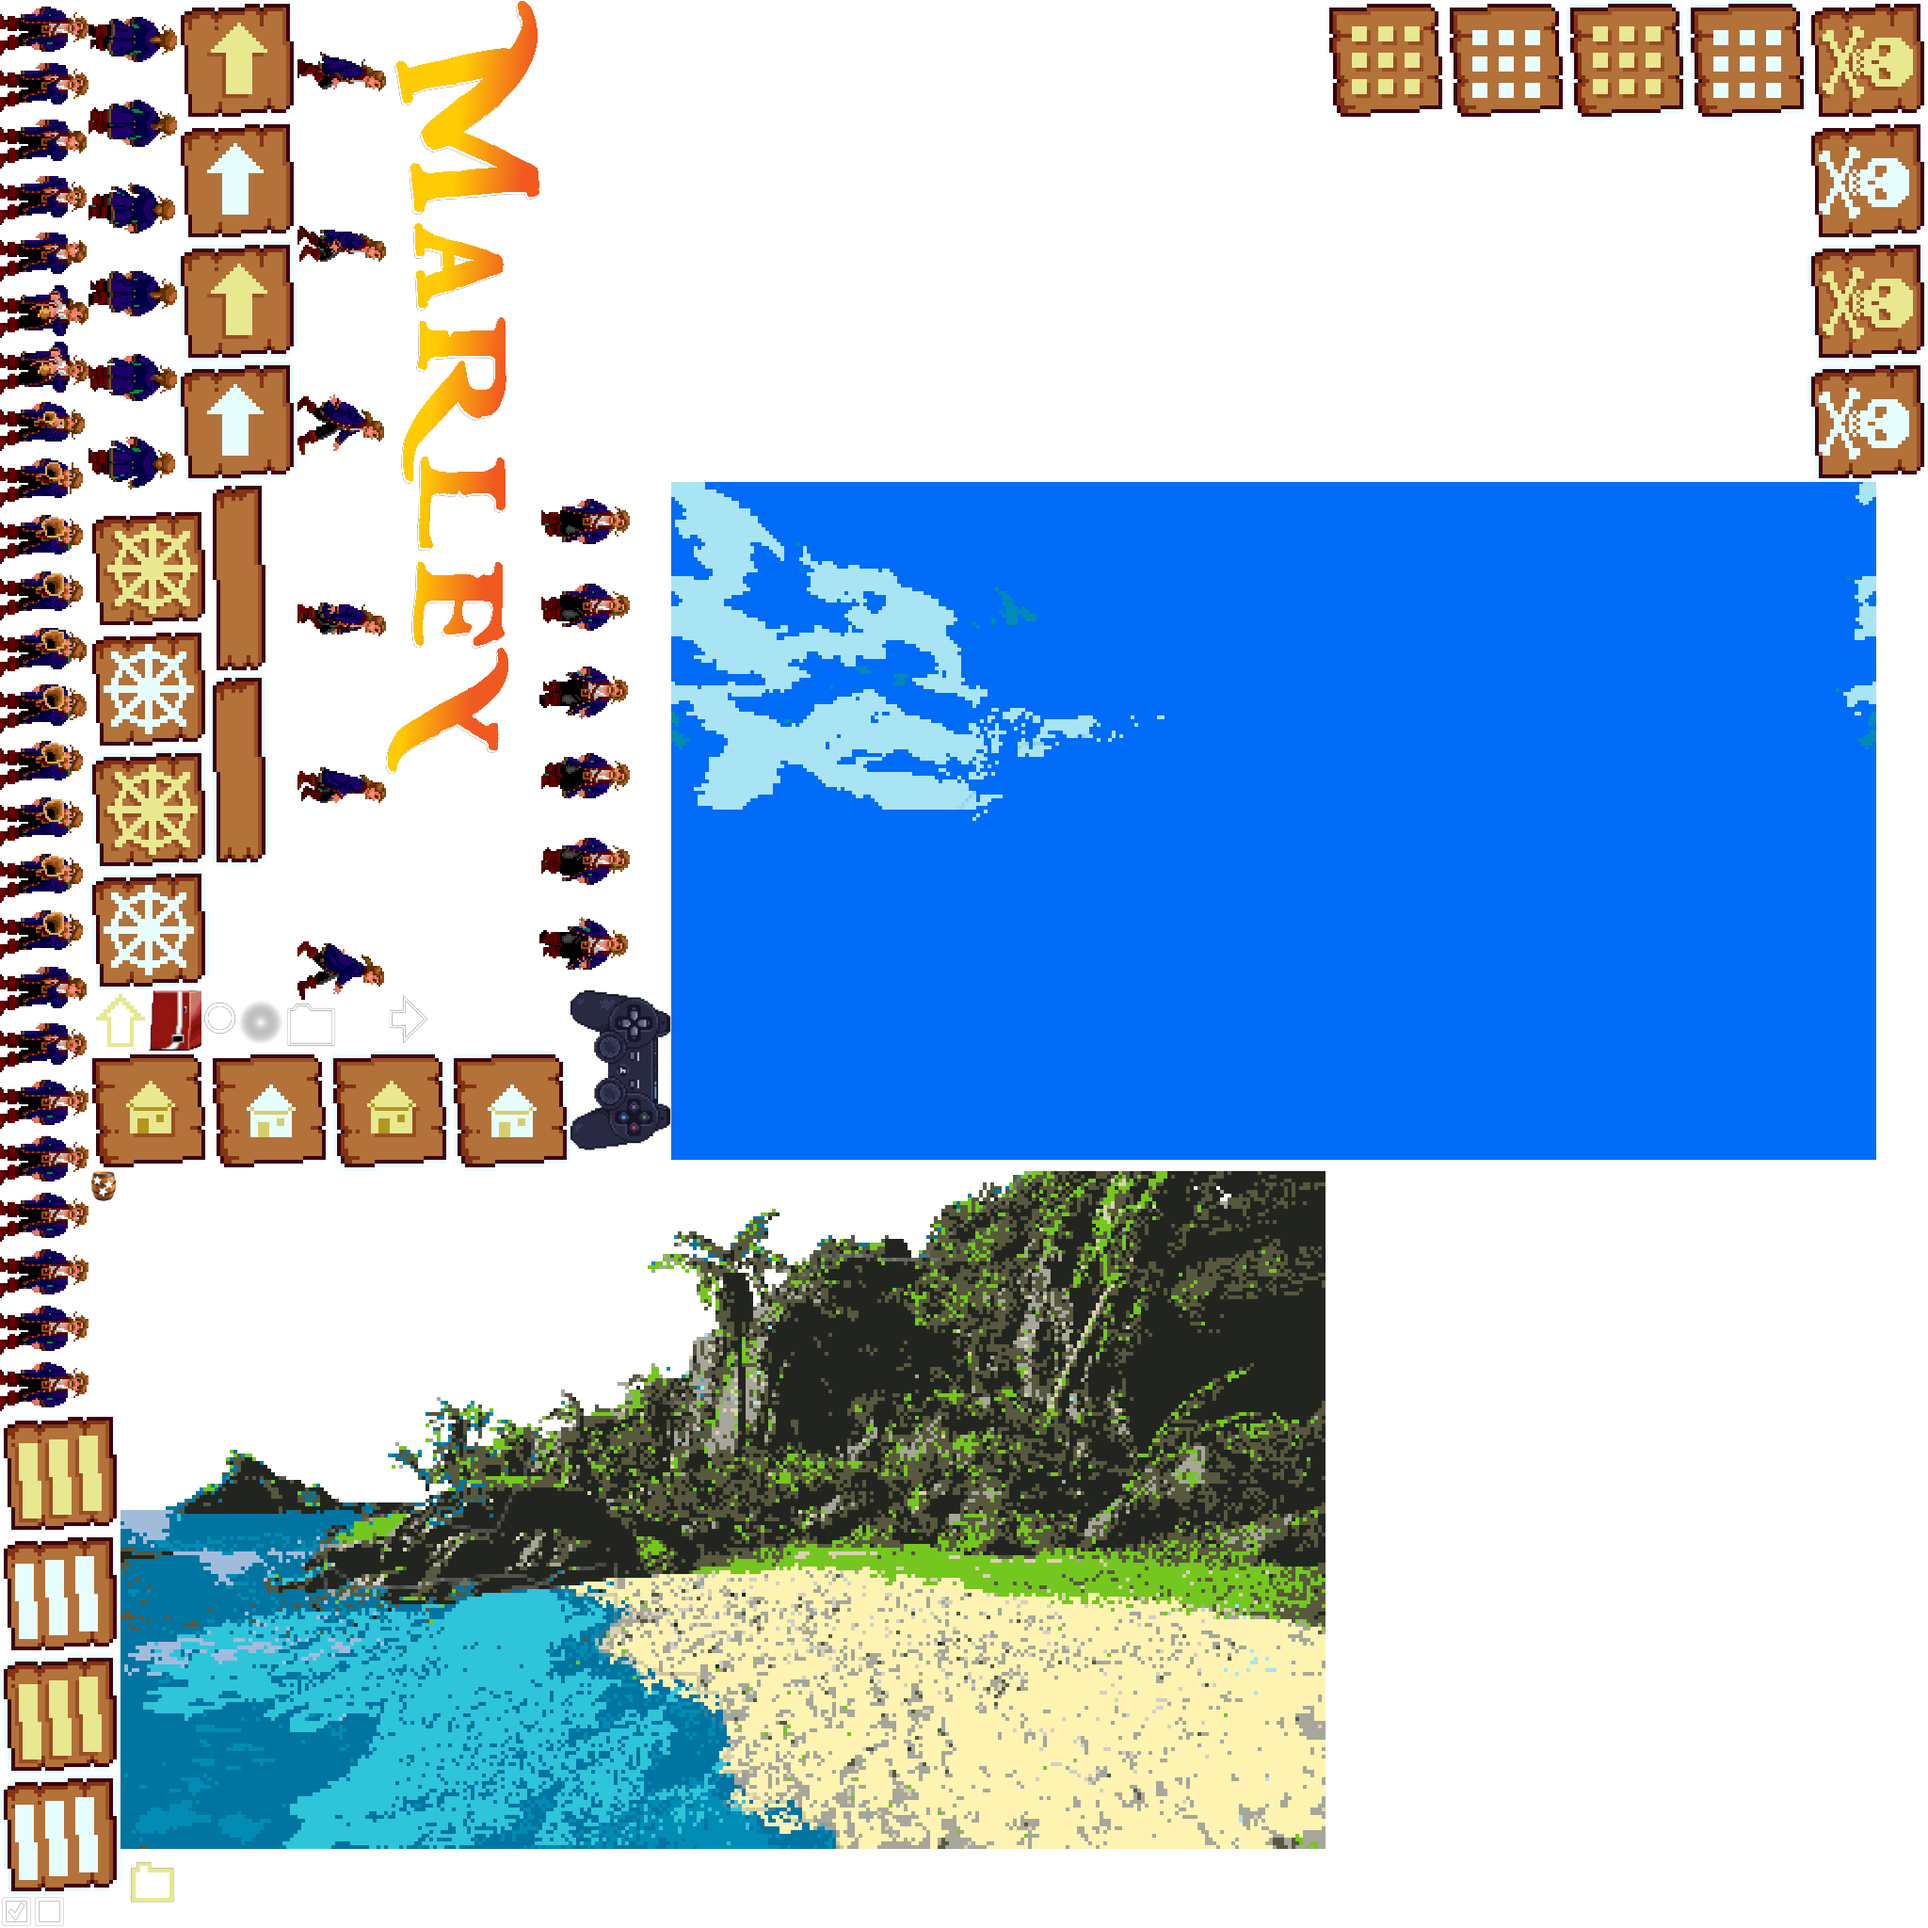
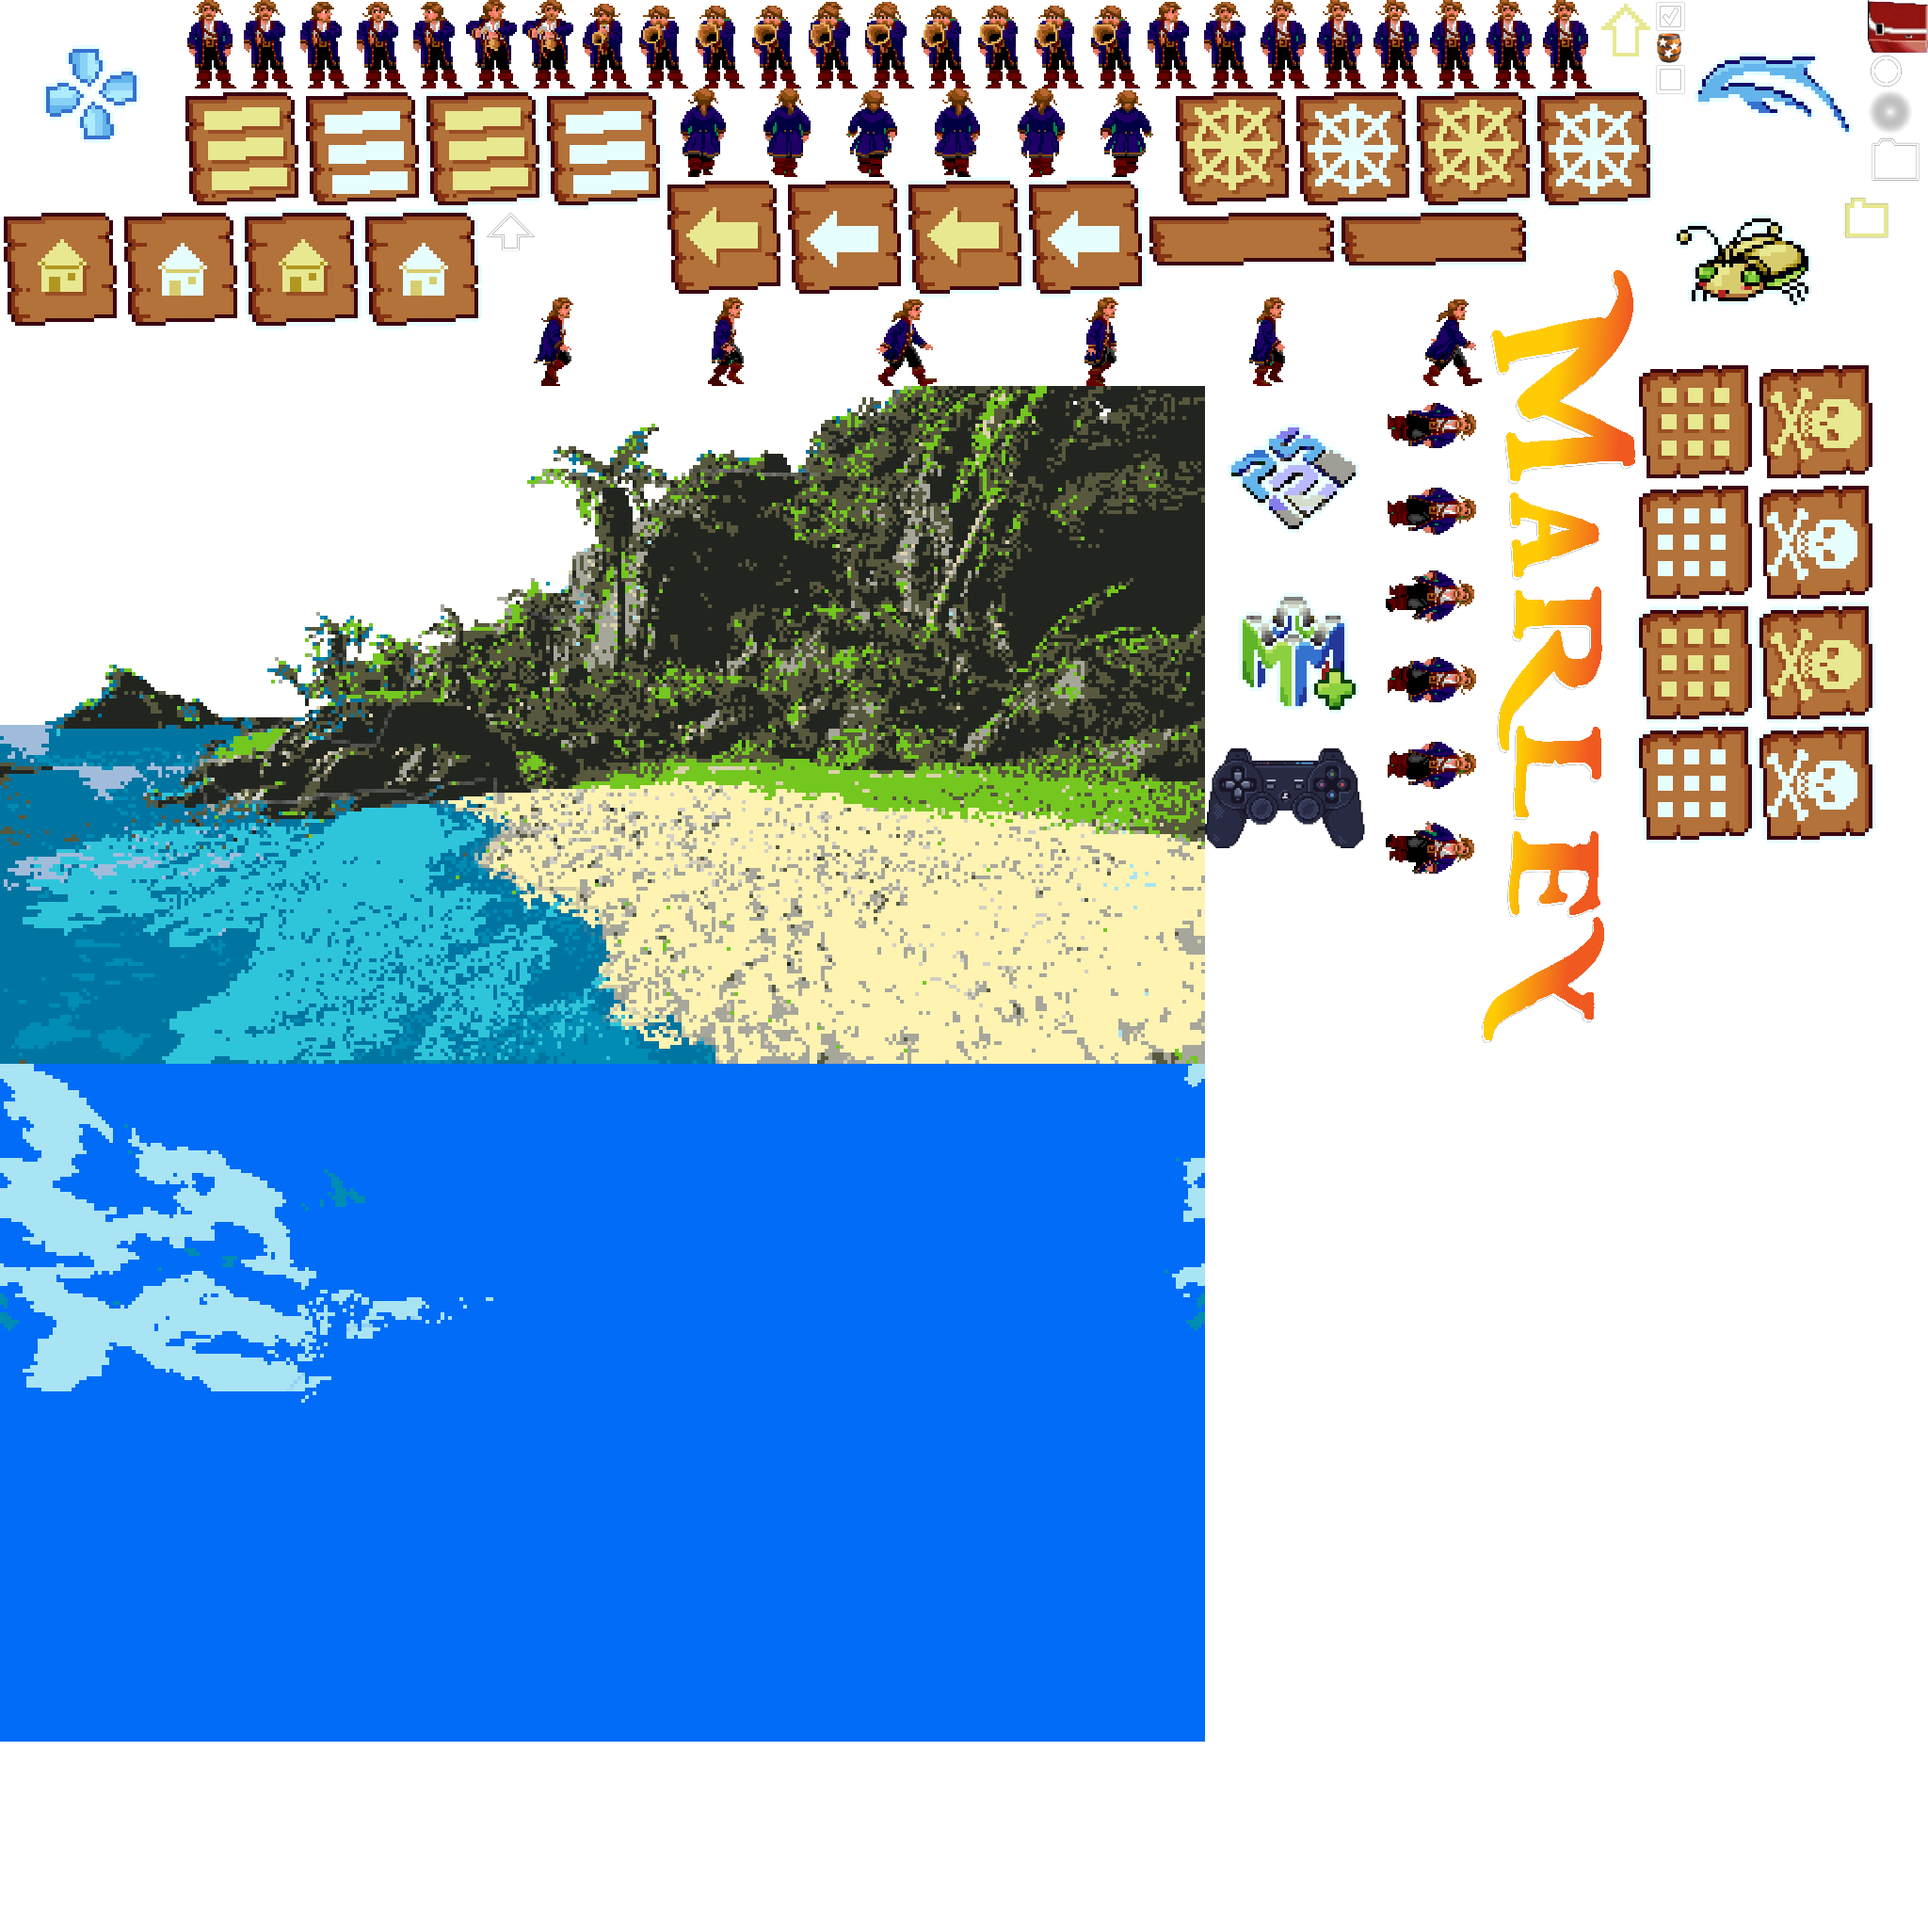
credits screen

diff --git a/resources/atlas/atlas.cpp b/resources/atlas/atlas.cpp
@@ -1,33 +1,38 @@
-const AtlasImage images[27] = {
+const AtlasImage images[32] = {
 
     {0, 1, 0.000488281, 0.999512, 1, 1, 0, "I_WHITE" },
-    {0, 0.999512, 0.0458984, 0.26709, 94, 1500, 90, "I_HORN" },
-    {0, 0.26709, 0.0625, 0.0170898, 128, 512, 90, "I_LINES_R" },
-    {0.0458984, 1, 0.0917969, 0.736328, 94, 540, 90, "I_WALKUP" },
-    {0.0458984, 0.736328, 0.108398, 0.486328, 128, 512, 90, "I_GEAR_R" },
-    {0.0917969, 1, 0.154297, 0.75, 128, 512, 90, "I_BACK_R" },
-    {0.0458984, 0.486328, 0.0771484, 0.455078, 64, 64, 0, "I_UP_DIRECTORY_R" },
-    {0, 0.0170898, 0.0170898, 0, 35, 35, 0, "I_CHECKEDBOX" },
-    {0.0458984, 0.455078, 0.295898, 0.392578, 512, 128, 0, "I_HOME_R" },
-    {0.154297, 1, 0.200195, 0.481445, 94, 1062, 90, "I_WALK" },
-    {0.108398, 0.75, 0.139648, 0.550781, 64, 408, 90, "I_TAB_R" },
-    {0.0625, 0.392578, 0.6875, 0.0410156, 1280, 720, 0, "I_BEACH" },
-    {0.0771484, 0.486328, 0.104492, 0.455078, 56, 64, 0, "I_ENGINE" },
-    {0.200195, 1, 0.279785, 0.597656, 163, 824, 90, "I_MARLEYLOGO" },
-    {0.104492, 0.481445, 0.123535, 0.462402, 39, 39, 0, "I_CIRCLE" },
-    {0.123535, 0.481445, 0.146973, 0.458008, 48, 48, 0, "I_DROP_SHADOW" },
-    {0.0458984, 0.392578, 0.0615234, 0.376953, 32, 32, 0, "I_BARREL" },
-    {0.6875, 1, 0.9375, 0.9375, 512, 128, 0, "I_GRID_R" },
-    {0.146973, 0.481445, 0.175781, 0.455566, 59, 53, 0, "I_FOLDER" },
-    {0.0625, 0.0410156, 0.09375, 0.00976562, 64, 64, 0, "I_FOLDER_R" },
-    {0.9375, 1, 1, 0.75, 128, 512, 90, "I_OFF_R" },
-    {0.279785, 0.75, 0.32666, 0.486328, 96, 540, 90, "I_WALKDOWN" },
-    {0.0170898, 0.0170898, 0.0341797, 0, 35, 35, 0, "I_SQUARE" },
-    {0.295898, 0.486328, 0.348145, 0.40332, 107, 170, 90, "I_CONTROLLER" },
-    {0.200195, 0.486328, 0.223633, 0.456543, 48, 61, 90, "I_UP_DIRECTORY" },
-    {0.0458984, 0.376953, 0.0615234, 0.361328, 32, 32, 0, "I_STAR" },
-    {0.348145, 0.75, 0.973145, 0.398438, 1280, 720, 0, "I_CLOUDS" },
+    {0.000488281, 1, 0.0942383, 0.90625, 192, 192, 0, "I_LOGO_PPSSPP" },
+    {0.0942383, 1, 0.82666, 0.954102, 1500, 94, 0, "I_HORN" },
+    {0.0942383, 0.954102, 0.344238, 0.891602, 512, 128, 0, "I_LINES_R" },
+    {0.344238, 0.954102, 0.60791, 0.908203, 540, 94, 0, "I_WALKUP" },
+    {0.60791, 0.954102, 0.85791, 0.891602, 512, 128, 0, "I_GEAR_R" },
+    {0.344238, 0.908203, 0.594238, 0.845703, 512, 128, 0, "I_BACK_R" },
+    {0.82666, 1, 0.85791, 0.96875, 64, 64, 0, "I_UP_DIRECTORY_R" },
+    {0.85791, 1, 0.875, 0.98291, 35, 35, 0, "I_CHECKEDBOX" },
+    {0.875, 1, 0.96875, 0.90625, 192, 192, 0, "I_LOGO_DOLPHIN" },
+    {0, 0.891602, 0.25, 0.829102, 512, 128, 0, "I_HOME_R" },
+    {0.85791, 0.90625, 0.95166, 0.8125, 192, 192, 0, "I_LOGO_MEDNAFEN" },
+    {0.25, 0.845703, 0.768555, 0.799805, 1062, 94, 0, "I_WALK" },
+    {0.594238, 0.891602, 0.793457, 0.860352, 408, 64, 0, "I_TAB_R" },
+    {0, 0.799805, 0.625, 0.448242, 1280, 720, 0, "I_BEACH" },
+    {0.96875, 1, 1, 0.972656, 64, 56, 90, "I_ENGINE" },
+    {0.768555, 0.860352, 0.848145, 0.458008, 163, 824, 90, "I_MARLEYLOGO" },
+    {0.96875, 0.972656, 0.987793, 0.953613, 39, 39, 0, "I_CIRCLE" },
+    {0.96875, 0.953613, 0.992188, 0.930176, 48, 48, 0, "I_DROP_SHADOW" },
+    {0.85791, 0.98291, 0.873535, 0.967285, 32, 32, 0, "I_BARREL" },
+    {0.848145, 0.8125, 0.910645, 0.5625, 128, 512, 90, "I_GRID_R" },
+    {0.96875, 0.930176, 0.997559, 0.904297, 59, 53, 0, "I_FOLDER" },
+    {0.625, 0.799805, 0.71875, 0.706055, 192, 192, 0, "I_LOGO_PCSX2" },
+    {0.95166, 0.904297, 0.98291, 0.873047, 64, 64, 0, "I_FOLDER_R" },
+    {0.625, 0.706055, 0.71875, 0.612305, 192, 192, 0, "I_LOGO_MUPEN" },
+    {0.910645, 0.8125, 0.973145, 0.5625, 128, 512, 90, "I_OFF_R" },
+    {0.71875, 0.799805, 0.765625, 0.536133, 96, 540, 90, "I_WALKDOWN" },
+    {0.85791, 0.967285, 0.875, 0.950195, 35, 35, 0, "I_SQUARE" },
+    {0.625, 0.612305, 0.708008, 0.560059, 170, 107, 0, "I_CONTROLLER" },
+    {0.25, 0.891602, 0.279785, 0.868164, 61, 48, 0, "I_UP_DIRECTORY" },
+    {0.85791, 0.950195, 0.873535, 0.93457, 32, 32, 0, "I_STAR" },
+    {0, 0.448242, 0.625, 0.0966797, 1280, 720, 0, "I_CLOUDS" },
     };
 const Atlas atlas = {
-  images, 27,
+  images, 32,
 };

diff --git a/application/UI/settingsScreen.cpp b/application/UI/settingsScreen.cpp
@@ -232,26 +232,37 @@ void SettingsScreen::CreateViews()
     m_TabHolder->AddTab(ge->T("Credits"), horizontalLayoutCredits);
     horizontalLayoutCredits->Add(new Spacer(iconWidth));
     
-    ViewGroup *creditsScroll = new ScrollView(ORIENT_VERTICAL, new LinearLayoutParams(tabLayoutWidth, FILL_PARENT));
-    horizontalLayoutCredits->Add(creditsScroll);
-    creditsScroll->SetTag("Credits");
-    LinearLayout *credits = new LinearLayout(ORIENT_VERTICAL);
-    creditsScroll->Add(credits);
+    LinearLayout *logos = new LinearLayout(ORIENT_VERTICAL);
+    horizontalLayoutCredits->Add(logos);
+    ImageView* mednafenLogo = new ImageView(m_SpritesheetMarley->GetSprite(I_LOGO_MEDNAFEN), IS_DEFAULT, new AnchorLayoutParams(192.0f, 128.0f, 1.0f, 1.0f, NONE, NONE, false));
+    ImageView* mupenLogo    = new ImageView(m_SpritesheetMarley->GetSprite(I_LOGO_MUPEN),    IS_DEFAULT, new AnchorLayoutParams(192.0f, 128.0f, 1.0f, 1.0f, NONE, NONE, false));
+    ImageView* ppssppLogo   = new ImageView(m_SpritesheetMarley->GetSprite(I_LOGO_PPSSPP),   IS_DEFAULT, new AnchorLayoutParams(192.0f, 128.0f, 1.0f, 1.0f, NONE, NONE, false));
+    ImageView* dolphinLogo  = new ImageView(m_SpritesheetMarley->GetSprite(I_LOGO_DOLPHIN),  IS_DEFAULT, new AnchorLayoutParams(192.0f, 128.0f, 1.0f, 1.0f, NONE, NONE, false));
+    ImageView* pcsx2Logo    = new ImageView(m_SpritesheetMarley->GetSprite(I_LOGO_PCSX2),    IS_DEFAULT, new AnchorLayoutParams(192.0f, 128.0f, 1.0f, 1.0f, NONE, NONE, false));
+    logos->Add(new Spacer(27));
+    logos->Add(mednafenLogo);
+    logos->Add(mupenLogo);
+    logos->Add(ppssppLogo);
+    logos->Add(dolphinLogo);
+    logos->Add(pcsx2Logo);
 
+    LinearLayout *credits = new LinearLayout(ORIENT_VERTICAL);
+    horizontalLayoutCredits->Add(credits);
     credits->Add(new Spacer(iconWidth));
+    
     credits->Add(new TextView
     (
         "\n"
-        "         Mednafen: https://mednafen.github.io, License: GNU GPLv2\n"
+        "     Mednafen:      mednafen.github.io (license: GNU GPLv2)\n"
         "\n"
-        "         Mupen64Plus: https://mupen64plus.org, License: GNU GPL\n"
+        "     Mupen64Plus: mupen64plus.org (license: GNU GPL)\n"
         "\n"
-        "         PPSSPP: https://www.ppsspp.org, License: GNU GPLv2\n"
+        "     PPSSPP:          www.ppsspp.org (license: GNU GPLv2)\n"
         "\n"
-        "         Dolphin: https://dolphin-emu.org/, License: GNU GPLv2\n"
+        "     Dolphin:         dolphin-emu.org (license: GNU GPLv2)\n"
         "\n"
-        "         PCSX2: https://pcsx2.net, License: GNU GPLv2\n",
-        ALIGN_LEFT | ALIGN_VCENTER | FLAG_WRAP_TEXT, true, new LinearLayoutParams(availableWidth - 2 * iconWidth, 500.0f)));
+        "     PCSX2:            pcsx2.net (license: GNU GPLv2)\n",
+        ALIGN_LEFT | ALIGN_VCENTER | FLAG_WRAP_TEXT, true, new LinearLayoutParams(availableWidth - 3 * iconWidth - 64.0f, 500.0f)));
 
     LOG_APP_INFO("UI: views for setting screen created");
 }

diff --git a/resources/atlas/atlas.h b/resources/atlas/atlas.h
@@ -2,29 +2,34 @@
 
 // IMAGES
 #define I_WHITE 0
-#define I_HORN 1
-#define I_LINES_R 2
-#define I_WALKUP 3
-#define I_GEAR_R 4
-#define I_BACK_R 5
-#define I_UP_DIRECTORY_R 6
-#define I_CHECKEDBOX 7
-#define I_HOME_R 8
-#define I_WALK 9
-#define I_TAB_R 10
-#define I_BEACH 11
-#define I_ENGINE 12
-#define I_MARLEYLOGO 13
-#define I_CIRCLE 14
-#define I_DROP_SHADOW 15
-#define I_BARREL 16
-#define I_GRID_R 17
-#define I_FOLDER 18
-#define I_FOLDER_R 19
-#define I_OFF_R 20
-#define I_WALKDOWN 21
-#define I_SQUARE 22
-#define I_CONTROLLER 23
-#define I_UP_DIRECTORY 24
-#define I_STAR 25
-#define I_CLOUDS 26
+#define I_LOGO_PPSSPP 1
+#define I_HORN 2
+#define I_LINES_R 3
+#define I_WALKUP 4
+#define I_GEAR_R 5
+#define I_BACK_R 6
+#define I_UP_DIRECTORY_R 7
+#define I_CHECKEDBOX 8
+#define I_LOGO_DOLPHIN 9
+#define I_HOME_R 10
+#define I_LOGO_MEDNAFEN 11
+#define I_WALK 12
+#define I_TAB_R 13
+#define I_BEACH 14
+#define I_ENGINE 15
+#define I_MARLEYLOGO 16
+#define I_CIRCLE 17
+#define I_DROP_SHADOW 18
+#define I_BARREL 19
+#define I_GRID_R 20
+#define I_FOLDER 21
+#define I_LOGO_PCSX2 22
+#define I_FOLDER_R 23
+#define I_LOGO_MUPEN 24
+#define I_OFF_R 25
+#define I_WALKDOWN 26
+#define I_SQUARE 27
+#define I_CONTROLLER 28
+#define I_UP_DIRECTORY 29
+#define I_STAR 30
+#define I_CLOUDS 31

diff --git a/engine/UI/Common/UI/view.cpp b/engine/UI/Common/UI/view.cpp
@@ -1086,20 +1086,18 @@ namespace SCREEN_UI
         }
     }
     
-//    void ImageView::GetContentDimensions(const SCREEN_UIContext &dc, float &w, float &h) const 
-//    {
-//        dc.Draw()->GetAtlas()->measureImage(m_Image, &w, &h);
-//    }
-//    
-//    void ImageView::Draw(SCREEN_UIContext &dc)
-//    {
-//        const AtlasImage *img = dc.Draw()->GetAtlas()->getImage(m_Image);
-//        if (img)
-//        {
-//            float scale = bounds_.w / img->w;
-//            dc.Draw()->DrawImage(m_Image, bounds_.x, bounds_.y, scale, 0xFFFFFFFF, ALIGN_TOPLEFT);
-//        }
-//    }
+    void ImageView::GetContentDimensions(const SCREEN_UIContext &dc, float &w, float &h) const 
+    {
+        dc.Draw()->MeasureImage(m_Image, &w, &h);
+    }
+    
+    void ImageView::Draw(SCREEN_UIContext &dc)
+    {
+        if (m_Image)
+        {
+            dc.Draw()->DrawImage(m_Image, bounds_.x, bounds_.y, 1.0f, 0xFFFFFFFF, ALIGN_TOPLEFT);
+        }
+    }
     
     void TextView::GetContentDimensionsBySpec(const SCREEN_UIContext &dc, MeasureSpec horiz, MeasureSpec vert, float &w, float &h) const 
     {
